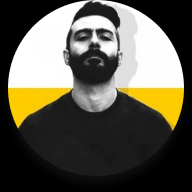
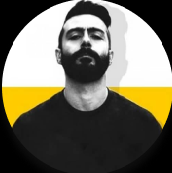
Fixing the problems of popular artist and making it better

Changed region(s): [[0.0, 0.0, 1.0, 0.896], [0.1163, 0.8092, 0.7558, 1.0]]

diff --git a/public/css/main.css b/public/css/main.css
@@ -169,7 +169,7 @@ ul {
 .navbar {
   width: 30rem;
   height: 100%;
-  margin-top: 10rem;
+  margin-top: 12rem;
 }
 .navbar__nav {
   height: inherit;
@@ -251,11 +251,11 @@ ul {
   display: flex;
   justify-content: flex-start;
   align-items: center;
-  margin: 1rem;
-  width: 60rem;
+  margin: 0 1rem;
+  width: 58rem;
 }
 .header__nav--text {
-  padding: 2rem;
+  padding: 1rem 2rem;
   color: #8A8A8A;
   cursor: pointer;
 }
@@ -395,7 +395,7 @@ ul {
 }
 
 .popular {
-  margin-top: 2rem;
+  margin-top: 1rem;
   padding-left: 3rem;
 }
 .popular h3 {
@@ -416,16 +416,34 @@ ul {
 .popular__info:first-child {
   margin-left: -2rem;
 }
+.popular__info * {
+  cursor: pointer;
+}
 .popular__picture {
   width: 8rem;
   height: 8rem;
   border-radius: 50%;
-  margin: 2rem 2rem 0.5rem 2rem;
+  margin: 1rem 2rem 0.5rem 2rem;
   filter: drop-shadow(0px 4px 4px rgba(0, 0, 0, 0.35));
 }
 .popular__name {
   margin-top: 1rem;
   color: #8A8A8A;
+  font-size: 1.3rem;
+}
+
+.dark-mode .search__box input {
+  color: #ECF0F3;
+  background: linear-gradient(135.81deg, rgb(44, 44, 44) 4.06%, rgba(255, 255, 255, 0.05) 95.82%);
+}
+.dark-mode .search__box input:focus::placeholder {
+  color: #ECF0F3;
+}
+.dark-mode .popular h3 {
+  color: #ECF0F3;
+}
+.dark-mode .header .header__nav--text {
+  color: #ECF0F3;
 }
 
 /*# sourceMappingURL=main.css.map */

diff --git a/public/stylesheets/components/_popular.scss b/public/stylesheets/components/_popular.scss
@@ -1,5 +1,5 @@
 .popular {
-    margin-top: 2rem;
+    margin-top: 1rem;
     padding-left: 3rem;
     & h3 {
         color: $color-dark;
@@ -12,18 +12,42 @@
         &:first-child {
             margin-left: -2rem;
         }
-        @include Flex(center, center, column)
+        @include Flex(center, center, column);
+        & * {
+            cursor: pointer;
+        }
     }
     &__picture {
         width: 8rem;
         height: 8rem;
         border-radius: 50%;
-        margin: 2rem 2rem .5rem 2rem;
+        margin: 1rem 2rem .5rem 2rem;
         filter: drop-shadow(0px 4px 4px rgba(0, 0, 0, 0.35));
     }
     &__name {
         // margin-right: 4rem;
         margin-top: 1rem;
         color: $color-gray;
+        font-size: 1.3rem;
+    }
+}
+
+.dark-mode {
+    & .search__box input {
+        &:focus::placeholder {
+            color: $color-bg-white;
+        }
+        color: $color-bg-white;
+        background: linear-gradient(135.81deg, rgb(44 44 44) 4.06%, rgba(255, 255, 255, 0.05) 95.82%);
+    }
+    & .popular {
+        & h3 {
+            color: $color-bg-white;
+        }
+    }
+    & .header {
+        & .header__nav--text {
+            color: $color-bg-white;
+        }
     }
 }

diff --git a/public/stylesheets/layout/_header.scss b/public/stylesheets/layout/_header.scss
@@ -3,11 +3,11 @@
         @include Flex(center, center);
         &--box {
             @include Flex(flex-start, center);
-            margin: 1rem;
-            width: 60rem;
+            margin: 0 1rem;
+            width: 58rem;
         }
         &--text {
-            padding: 2rem;
+            padding: 1rem 2rem;
             color: $color-gray;
             cursor: pointer;
         }

diff --git a/public/stylesheets/layout/_navbar.scss b/public/stylesheets/layout/_navbar.scss
@@ -2,7 +2,7 @@
     // position: relative;
     width: 30rem;
     height: 100%;
-    margin-top: 10rem;
+    margin-top: 12rem;
     &__nav {
         height: inherit;
         &--lists {
